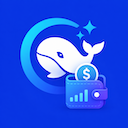
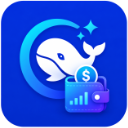
Refactor extension activation and testing; add publisher to package.json and update .gitignore

Changed region(s): [[0.125, 0.125, 0.9062, 0.9375], [0.0, 0.0, 1.0, 1.0], [0.2188, 0.2188, 0.25, 0.25]]

diff --git a/src/test/extension.test.ts b/src/test/extension.test.ts
@@ -1,15 +1,119 @@
 import * as assert from 'assert';
-
-// You can import and use all API from the 'vscode' module
-// as well as import your extension to test it
 import * as vscode from 'vscode';
-// import * as myExtension from '../../extension';
+import { BudgetManager } from '../budgetManager';
 
 suite('Extension Test Suite', () => {
-	vscode.window.showInformationMessage('Start all tests.');
+	test('activates and registers commands', async () => {
+		const extension = vscode.extensions.all.find((candidate) => {
+			const packageJson = (candidate as vscode.Extension<unknown> & {
+				packageJSON?: { name?: string };
+			}).packageJSON;
+			return packageJson?.name === 'byok-deepseek-credits';
+		});
 
-	test('Sample test', () => {
-		assert.strictEqual(-1, [1, 2, 3].indexOf(5));
-		assert.strictEqual(-1, [1, 2, 3].indexOf(0));
+		assert.ok(extension, 'Expected extension under test to be installed');
+
+		await extension?.activate();
+
+		assert.strictEqual(extension?.isActive, true);
+
+		const commands = await vscode.commands.getCommands(true);
+		assert.ok(commands.includes('byokDeepSeekCredits.refresh'));
+		assert.ok(commands.includes('byokDeepSeekCredits.setApiKey'));
+	});
+
+	test('shows a status bar item when the provider is enabled', async () => {
+		type RecordedStatusBarItem = {
+			text: string;
+			tooltip: string | vscode.MarkdownString | undefined;
+			showCalled: boolean;
+			disposeCalled: boolean;
+			command?: string | vscode.Command;
+			show: () => void;
+			hide: () => void;
+			dispose: () => void;
+		};
+
+		const createdItems: RecordedStatusBarItem[] = [];
+
+		const fakeItem: RecordedStatusBarItem = {
+			text: '',
+			tooltip: '',
+			showCalled: false,
+			disposeCalled: false,
+			command: undefined,
+			show: () => {
+				fakeItem.showCalled = true;
+			},
+			hide: () => undefined,
+			dispose: () => {
+				fakeItem.disposeCalled = true;
+			},
+		};
+
+		const originalCreateStatusBarItem = vscode.window.createStatusBarItem;
+		const originalGetConfiguration = vscode.workspace.getConfiguration;
+		const secretChanges = new vscode.EventEmitter<vscode.SecretStorageChangeEvent>();
+
+		Object.defineProperty(vscode.window, 'createStatusBarItem', {
+			configurable: true,
+			value: () => {
+				createdItems.push(fakeItem);
+				return fakeItem as unknown as vscode.StatusBarItem;
+			},
+		});
+
+		Object.defineProperty(vscode.workspace, 'getConfiguration', {
+			configurable: true,
+			value: () => ({
+				get<T>(key: string, defaultValue?: T): T {
+					if (key === 'providers.deepseek.enabled') {
+						return true as T;
+					}
+
+					return defaultValue as T;
+				},
+				update: async () => undefined,
+			}),
+		});
+
+		const context = {
+			subscriptions: [],
+			secrets: {
+				get: async () => undefined,
+				store: async () => undefined,
+				delete: async () => undefined,
+				onDidChange: secretChanges.event,
+			},
+		} as unknown as vscode.ExtensionContext;
+
+		const manager = new BudgetManager(context);
+
+		try {
+			await manager.initialize();
+
+			assert.strictEqual(createdItems.length, 1);
+			assert.strictEqual(fakeItem.showCalled, true);
+			assert.deepStrictEqual(fakeItem.command, {
+				command: 'byokDeepSeekCredits.refresh',
+				title: 'Refresh balance',
+			});
+			assert.strictEqual(fakeItem.text, '$(key) DeepSeek:');
+		} finally {
+			manager.dispose();
+			secretChanges.dispose();
+
+			Object.defineProperty(vscode.window, 'createStatusBarItem', {
+				configurable: true,
+				value: originalCreateStatusBarItem,
+			});
+
+			Object.defineProperty(vscode.workspace, 'getConfiguration', {
+				configurable: true,
+				value: originalGetConfiguration,
+			});
+		}
+
+		assert.strictEqual(fakeItem.disposeCalled, true);
 	});
 });

diff --git a/esbuild.js b/esbuild.js
@@ -37,9 +37,6 @@ async function main() {
 		outfile: 'dist/extension.js',
 		external: ['vscode'],
 		logLevel: 'silent',
-		footer: {
-			js: 'module.exports = { activate, deactivate };',
-		},
 		plugins: [
 			/* add to the end of plugins array */
 			esbuildProblemMatcherPlugin,

diff --git a/src/extension.ts b/src/extension.ts
@@ -5,7 +5,6 @@ let manager: BudgetManager | undefined;
 
 export async function activate(context: vscode.ExtensionContext): Promise<void> {
     manager = new BudgetManager(context);
-    await manager.initialize();
 
     context.subscriptions.push(
         vscode.commands.registerCommand('byokDeepSeekCredits.refresh', () => {
@@ -20,6 +19,8 @@ export async function activate(context: vscode.ExtensionContext): Promise<void> 
             }
         })
     );
+
+    await manager.initialize();
 }
 
 export function deactivate(): void {